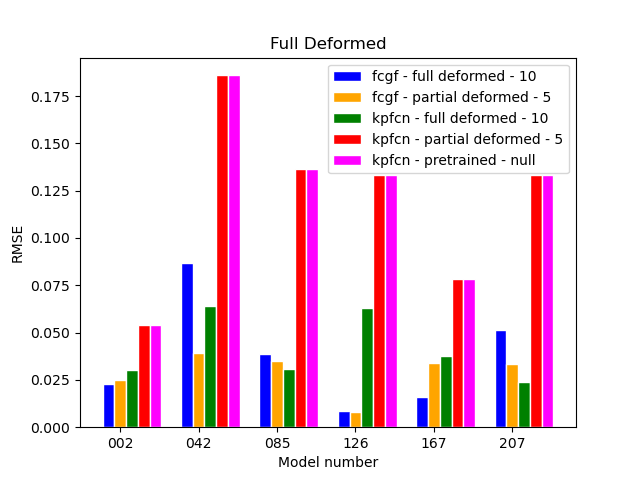
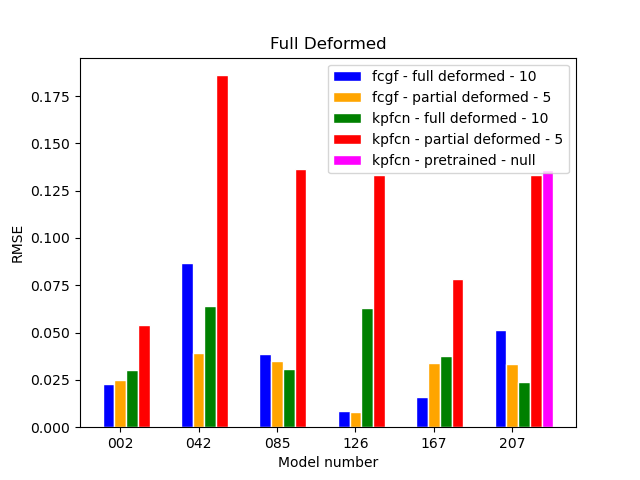
using 0.01 instead

diff --git a/Testing/all/aggregate_data_all_weights_per_datatype.py b/Testing/all/aggregate_data_all_weights_per_datatype.py
@@ -155,7 +155,10 @@ for data_type in data_types:
 
                 rmse = []             
                 for model_number in data:
-                    rmse.append(float(data[model_number]['RMSE']))
+                    if 'RMSE' in data[model_number]:
+                        rmse.append(float(data[model_number]['RMSE']))
+                    else:
+                        rmse.append(np.nan)
                 
                 rmse = np.array(rmse)
                 plt.bar(bar, rmse, color = colors[color_idx], width = barWidthPlot, edgecolor='white', label = weights_legend)              
